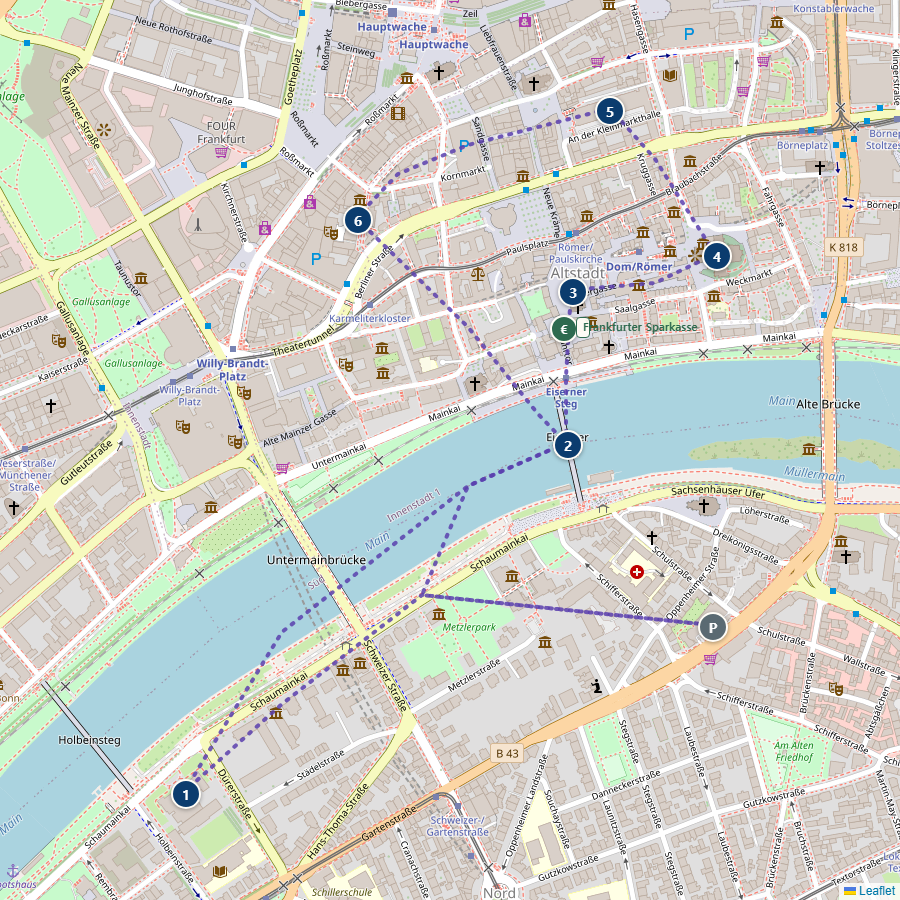
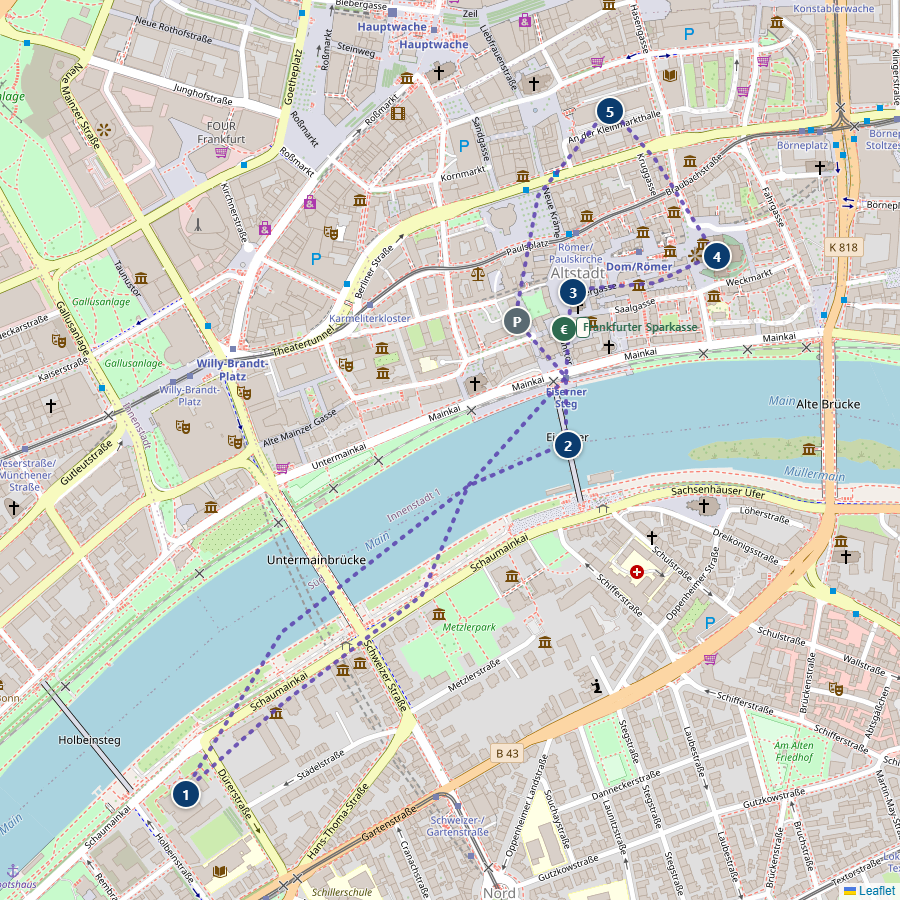
8일차 프랑크푸르트 주차장을 뢰머광장 클러스터 옆(Parkhaus Dom-Römer)으로 재배치, 괴테 생가 제거
주차장이 슈테델 미술관에만 가깝고 나머지 명소(뢰머광장·대성당·클라인마르크트할레)와 멀었던 문제를
해결하기 위해 주차장을 명소가 몰려 있는 뢰머광장 앞으로 옮기고, 다리를 건너 슈테델을 본 뒤
되돌아와 나머지 명소를 도는 동선으로 재구성. 괴테 생가는 지도/동선/카드에서 완전히 삭제.

diff --git a/germany-roadtrip-planner.html b/germany-roadtrip-planner.html
@@ -4401,7 +4401,7 @@ document.addEventListener('DOMContentLoaded', function(){
           <h4>오늘의 동선</h4>
           <ul>
             <li>이동 거리가 짧아 가장 여유로운 날 — 늦은 오전까지 뤼데스하임 케이블카(Seilbahn)나 라인강변 산책</li>
-            <li>프랑크푸르트로 직행(66km·55분) — 슈테델 미술관부터 시작해 뢰머광장 일대(아이제르너 슈텍·대성당·클라인마르크트할레·괴테 생가)를 도보로 둘러보기 (약 1~1.5시간)</li>
+            <li>프랑크푸르트로 직행(66km·55분) — Parkhaus Dom-Römer(뢰머광장 바로 앞)에 주차 후 다리 건너 슈테델 미술관부터 관람, 돌아오는 길에 아이제르너 슈텍·뢰머광장·대성당·클라인마르크트할레를 도보로 둘러보기 (약 1~1.5시간)</li>
             <li>⚠(선택, 시간 여유 있을 때만) 프랑크푸르트 가는 길에 비스바덴 경유(뤼데스하임→비스바덴 30km·33분, 비스바덴→프랑크푸르트 39km·32분 — 직행과 총거리 차이 거의 없음), 쿠어파크(Kurpark)·구시가 잠깐 산책(약 1시간) — 자세한 내용은 프랑크푸르트 다음 섹션 참고</li>
             <li><b style="color:#c0392b;">늦어도 오후 3~4시에는 공항으로 출발</b> (연료 만땅 채우기 + 반납 2~3시간 전 도착 기준, 19:40 출국 기준)</li>
             <li>프랑크푸르트 공항(FRA) 반납소에서 차량 반납, 외관 재확인 동석 → 19:40 출국편 탑승 수속</li>
@@ -4411,7 +4411,7 @@ document.addEventListener('DOMContentLoaded', function(){
           <h4>체크아웃 팁</h4>
           <p class="lodge">반납 전 마지막 주유소에서 Full 탱크 영수증을 꼭 챙기세요 (연료 정책 분쟁 방지)</p>
           <h4 style="margin-top:1rem">팁</h4>
-          <p class="tip">거리가 짧고 저녁 출발편이라 가장 여유로운 날입니다. 오늘은 슈테델 미술관을 도보 코스 시작점으로 두고 아이제르너 슈텍을 건너 뢰머광장 일대(대성당·클라인마르크트할레·괴테 생가)까지 도는 순서로 바꿨습니다 — 도보권 자체는 좁아 짧게 둘러보기 좋지만, 주말이라 도심 주차장이 붐빌 수 있으니 반납 시간에 쫓기지 않게 여유를 두세요. 비스바덴은 프랑크푸르트로 가는 길에 있어 들러도 총 이동거리 차이가 거의 없지만, 그만큼 도보 관광 시간이 줄어드니 시간이 빠듯하면 생략하고 프랑크푸르트로 직행하세요(자세한 내용은 프랑크푸르트 다음 섹션에 선택 사항으로 정리했습니다). 반납 영수증/사진은 예치금 환불 분쟁 대비용으로 보관하고, 공항에서는 렌터카 반납 표지판(Rückgabe/Return) 안내를 따라 별도 진입로로 들어갑니다.</p>
+          <p class="tip">거리가 짧고 저녁 출발편이라 가장 여유로운 날입니다. 오늘은 뢰머광장 앞 Parkhaus Dom-Römer에 주차해두고, 다리를 건너 슈테델 미술관을 먼저 본 뒤 되돌아와 아이제르너 슈텍·뢰머광장·대성당·클라인마르크트할레를 도는 순서로 정리했습니다 — 주차장이 나머지 명소들과 바로 붙어 있어 마지막에 짧게 훑고 차로 돌아오기 좋습니다. 도보권 자체는 좁아 짧게 둘러보기 좋지만, 주말이라 도심 주차장이 붐빌 수 있으니 반납 시간에 쫓기지 않게 여유를 두세요. 비스바덴은 프랑크푸르트로 가는 길에 있어 들러도 총 이동거리 차이가 거의 없지만, 그만큼 도보 관광 시간이 줄어드니 시간이 빠듯하면 생략하고 프랑크푸르트로 직행하세요(자세한 내용은 프랑크푸르트 다음 섹션에 선택 사항으로 정리했습니다). 반납 영수증/사진은 예치금 환불 분쟁 대비용으로 보관하고, 공항에서는 렌터카 반납 표지판(Rückgabe/Return) 안내를 따라 별도 진입로로 들어갑니다.</p>
         </div>
       </div>
       <div class="sight-list">
@@ -4584,22 +4584,21 @@ document.addEventListener('DOMContentLoaded', function(){
       </div>
       </div>
       <p class="city-label">프랑크푸르트</p>
-      <p class="walk-map-note">🚗 뤼데스하임→프랑크푸르트 직행 약 66km·55분 · <a href="https://www.google.com/maps/dir/?api=1&travelmode=driving&origin=49.9775,7.9271&destination=50.1106,8.6822" target="_blank" rel="noopener">Google 지도로 길찾기</a><br>🅿 Parkhaus Alt-Sachsenhausen(슈테델 미술관 도보 약 10분, 미술관 공식 추천 주차장) · 유료(시간당 €1, 야간 €4, 24시간 최대 €16) · <a href="https://www.google.com/maps/search/?api=1&query=Parkhaus+Alt-Sachsenhausen+Frankfurt" target="_blank" rel="noopener">주차장 위치 보기</a><br>🅿 만차 시 대안: <a href="https://www.google.com/maps/search/?api=1&query=Parkhaus+Dom-Roemer+Frankfurt" target="_blank" rel="noopener">Parkhaus Dom-Römer</a>(뢰머광장 바로 앞, 유료 시간당 약 €3~4)</p>
-      <p class="walk-map-note">슈테델 미술관에서 시작해 다리를 건너 뢰머광장 일대(대성당·클라인마르크트할레·괴테 생가)를 도는 순서로 정리했습니다 — 슈테델·대성당·클라인마르크트할레가 핵심, 괴테 생가는 시간 되면 추가. 비행기 시간이 빠듯하면 슈테델만 보고 다리를 건너 뢰머광장까지만 갔다가 되돌아가세요.</p>
-      <a class="walk-map-link" href="https://www.google.com/maps/dir/?api=1&travelmode=walking&origin=50.1056,8.6852&destination=50.1056,8.6852&waypoints=50.1033%2C8.6739%7C50.1081%2C8.6821%7C50.1102%2C8.6822%7C50.1107%2C8.6853%7C50.1127%2C8.6830%7C50.1112%2C8.6776" target="_blank" rel="noopener">📍 Google 지도로 도보 코스 보기(Parkhaus Alt-Sachsenhausen 출발·도착) · 총 약 3.5km · 도보 약 49분</a>
+      <p class="walk-map-note">🚗 뤼데스하임→프랑크푸르트 직행 약 66km·55분 · <a href="https://www.google.com/maps/dir/?api=1&travelmode=driving&origin=49.9775,7.9271&destination=50.1102,8.6822" target="_blank" rel="noopener">Google 지도로 길찾기</a><br>🅿 Parkhaus Dom-Römer(뢰머광장 바로 앞, 대성당·클라인마르크트할레도 도보 5분 내) · 유료(시간당 약 €3~4) · <a href="https://www.google.com/maps/search/?api=1&query=Parkhaus+Dom-Roemer+Frankfurt" target="_blank" rel="noopener">주차장 위치 보기</a><br>🅿 만차 시 대안: <a href="https://www.google.com/maps/search/?api=1&query=Parkhaus+Hauptwache+Frankfurt" target="_blank" rel="noopener">Parkhaus Hauptwache</a>(클라인마르크트할레에서 도보 약 7분)</p>
+      <p class="walk-map-note">뢰머광장 바로 앞 Parkhaus Dom-Römer에 주차해두고, 대성당·클라인마르크트할레 등 나머지 명소와 붙어 있는 이 주차장을 거점 삼아 먼저 다리를 건너 슈테델 미술관을 보고 온 뒤, 되돌아오는 길에 아이제르너 슈텍·뢰머광장·대성당·클라인마르크트할레를 도는 순서로 정리했습니다. 비행기 시간이 빠듯하면 슈테델 관람을 줄이고 뢰머광장 일대만 짧게 둘러보세요.</p>
+      <a class="walk-map-link" href="https://www.google.com/maps/dir/?api=1&travelmode=walking&origin=50.1102,8.6822&destination=50.1102,8.6822&waypoints=50.1033%2C8.6739%7C50.1081%2C8.6821%7C50.1107%2C8.6853%7C50.1127%2C8.6830" target="_blank" rel="noopener">📍 Google 지도로 도보 코스 보기(Parkhaus Dom-Römer 출발·도착) · 총 약 3.0km · 도보 약 37분</a>
       <div class="route-snapshot">
         <div class="route-snapshot-media">
-          <img src="images/routes/frankfurt.png?v=7" alt="프랑크푸르트 도보 코스 지도 스냅샷 — 슈테델 미술관에서 시작해 아이제르너 슈텍·뢰머광장·대성당·클라인마르크트할레·괴테 생가로 이어지는 순서, Frankfurter Sparkasse ATM 포함" loading="lazy" width="900" height="900">
+          <img src="images/routes/frankfurt.png?v=8" alt="프랑크푸르트 도보 코스 지도 스냅샷 — Parkhaus Dom-Römer에서 출발해 다리 건너 슈테델 미술관을 본 뒤 아이제르너 슈텍·뢰머광장·대성당·클라인마르크트할레를 돌아 주차장으로 복귀, Frankfurter Sparkasse ATM 포함" loading="lazy" width="900" height="900">
         </div>
         <ol class="route-steps">
-        <li class="rs-p"><span class="rs-name">Parkhaus Alt-Sachsenhausen</span></li>
-        <li><span class="rs-name">슈테델 미술관(Städel Museum)</span><span class="rs-seg">(850m, 10분)</span></li>
+        <li class="rs-p"><span class="rs-name">Parkhaus Dom-Römer</span></li>
+        <li><span class="rs-name">슈테델 미술관(Städel Museum)</span><span class="rs-seg">(980m, 12분, 아이제르너 슈텍 경유)</span></li>
         <li><span class="rs-name">아이제르너 슈텍</span><span class="rs-seg">(750m, 9분)</span></li>
         <li><span class="rs-name">뢰머광장</span><span class="rs-seg">(230m, 3분)</span></li>
         <li><span class="rs-name">프랑크푸르트 대성당</span><span class="rs-seg">(300m, 4분)</span></li>
         <li><span class="rs-name">클라인마르크트할레(Kleinmarkthalle)</span><span class="rs-seg">(300m, 4분)</span></li>
-        <li><span class="rs-name">[선택] 괴테 생가(Goethe-Haus)</span><span class="rs-seg">(420m, 6분)</span></li>
-        <li class="rs-p"><span class="rs-name">Parkhaus Alt-Sachsenhausen(아이제르너 슈텍 다시 건너 복귀)</span><span class="rs-seg">(1.0km, 14분)</span></li>
+        <li class="rs-p"><span class="rs-name">Parkhaus Dom-Römer</span><span class="rs-seg">(400m, 5분)</span></li>
         </ol>
       </div>
       <div class="landmark-grid">
@@ -4609,11 +4608,11 @@ document.addEventListener('DOMContentLoaded', function(){
         <h3><span class="stop-num">1</span>슈테델 미술관(Städel Museum)</h3>
         <p class="landmark-desc">1815년 은행가 요한 프리드리히 슈테델의 유증으로 세워진 시민 재단 미술관. 14세기부터 현재까지 700년의 서양미술사를 한 곳에서 훑을 수 있는 독일 대표 미술관 중 하나로, 회화 약 3,100점·조각 660여 점·판화/드로잉 10만 점 이상을 소장합니다. 반 에이크·보티첼리·뒤러·크라나흐·홀바인부터 렘브란트·페르메이르·모네·피카소·베크만·리히터까지 시대를 아우르는 컬렉션이 특징입니다. 마인강변 &ldquo;박물관 강변(Museumsufer)&rdquo;에 자리해 오늘 도보 코스의 시작점입니다.</p>
         <div class="landmark-meta">화·토·일 10:00–18:00, 목·금 10:00–21:00(월요일 휴관) · <span class="landmark-price">성인 €19 · 대학생 €17</span>(화요일 15시 이후 상설전+특별전 전체 €10) · <a href="https://www.staedelmuseum.de" target="_blank" rel="noopener">홈페이지</a> · <a href="https://www.google.com/maps/search/?api=1&query=Staedel+Museum+Frankfurt" target="_blank" rel="noopener">지도</a></div>
-        <div class="landmark-parking">🅿 Parkhaus Alt-Sachsenhausen에서 도보 약 10분 · ⚠ 제대로 보려면 최소 1~1.5시간 필요 — 비행기 시간 감안해 관람 시간 배분</div>
+        <div class="landmark-parking">🅿 Parkhaus Dom-Römer에서 다리 건너 도보 약 12분 · ⚠ 제대로 보려면 최소 1~1.5시간 필요 — 비행기 시간 감안해 관람 시간 배분</div>
         <div style="display:grid;grid-template-columns:repeat(auto-fit,minmax(150px,1fr));gap:0.6rem;margin-top:0.7rem;">
           <div>
             <img src="https://commons.wikimedia.org/wiki/Special:FilePath/Johann_Heinrich_Wilhelm_Tischbein_-_Goethe_in_the_Roman_Campagna_-_Google_Art_Project.jpg?width=300" alt="티슈바인, '캄파냐의 괴테'" loading="lazy" style="width:100%;border-radius:6px;display:block;">
-            <p style="font-size:0.78rem;margin:0.3rem 0 0;"><b>티슈바인, &ldquo;로마 캄파냐의 괴테&rdquo;(1787년)</b><br>슈테델의 최고 인기작. 괴테 생가와 함께 보면 더 특별합니다</p>
+            <p style="font-size:0.78rem;margin:0.3rem 0 0;"><b>티슈바인, &ldquo;로마 캄파냐의 괴테&rdquo;(1787년)</b><br>슈테델의 최고 인기작</p>
           </div>
           <div>
             <img src="https://commons.wikimedia.org/wiki/Special:FilePath/Johannes_Vermeer_-_The_Geographer_-_Google_Art_Project.jpg?width=300" alt="페르메이르, '지리학자'" loading="lazy" style="width:100%;border-radius:6px;display:block;">
@@ -4680,21 +4679,6 @@ document.addEventListener('DOMContentLoaded', function(){
         <p class="landmark-desc">1954년 문을 연 실내 시장. 정육점·치즈가게·청과상 등 100여 개 상점이 모여 있어 즉석 프랑크푸르터 소시지 등을 사 먹기 좋습니다.</p>
         <div class="landmark-meta">월–금 08:00–18:00, 토 08:00–16:00, 일·공휴일 휴무 · <span class="landmark-price">입장 무료</span> · ⚠ 방문일(9/26 토)은 16:00 마감 — 그 전에 들르세요 · <a href="https://www.google.com/maps/search/?api=1&query=Kleinmarkthalle+Frankfurt" target="_blank" rel="noopener">지도</a></div>
         <div class="landmark-parking">🅿 Parkhaus Dom-Römer · 유료(시간당 약 €3~4)</div>
-        </div>
-      </div>
-      <div class="landmark-card">
-        <img src="https://commons.wikimedia.org/wiki/Special:FilePath/Frankfurt_Am_Main-Goethe-Haus-Ansicht_am_Grossen_Hirschgraben.jpg?width=500" alt="괴테 생가(Goethe-Haus)" loading="lazy">
-        <div class="landmark-body">
-        <h3><span class="stop-num">6</span>[선택] 괴테 생가(Goethe-Haus)</h3>
-        <p class="landmark-desc">1749년 괴테가 태어나 청년기까지 살았던 집. 전쟁으로 파괴됐다가 원래 가구·장식을 최대한 살려 복원했고, 괴테가 &lt;파우스트&gt; 초고를 썼다는 서재도 볼 수 있습니다. 옆 건물의 괴테 박물관과 함께 관람합니다.</p>
-        <div class="landmark-meta">월–토 10:00–18:00(목 ~21:00), 일·공휴일 10:00–17:30 · <span class="landmark-price">성인 €12 · 대학생 €7</span> · <a href="https://frankfurter-goethe-haus.de" target="_blank" rel="noopener">홈페이지</a> · <a href="https://www.google.com/maps/search/?api=1&query=Goethe-Haus+Frankfurt" target="_blank" rel="noopener">지도</a></div>
-        <div class="landmark-parking">🅿 클라인마르크트할레에서 도보 약 6분 · ⚠ 비행기 시간이 빠듯하면 생략 — 관람에 최소 30~45분 필요</div>
-        <div style="display:grid;grid-template-columns:repeat(auto-fit,minmax(150px,1fr));gap:0.6rem;margin-top:0.7rem;">
-          <div>
-            <img src="https://commons.wikimedia.org/wiki/Special:FilePath/Innenraum%40Goethe-Haus_Frankfurt_a.M.20170819_04.jpg?width=300" alt="괴테 생가 내부, 복원된 방" loading="lazy" style="width:100%;border-radius:6px;display:block;">
-            <p style="font-size:0.78rem;margin:0.3rem 0 0;"><b>복원된 실내</b><br>전쟁으로 소실된 원래 건물을 18세기 당시 가구·장식품을 최대한 되살려 복원했습니다</p>
-          </div>
-        </div>
         </div>
       </div>
       </div>
@@ -4923,7 +4907,7 @@ document.addEventListener('DOMContentLoaded', function(){
       </div>
       </div>
       </details>
-      <p class="walk-map-note">🚗 프랑크푸르트 시내(Parkhaus Alt-Sachsenhausen)→Hertz 반납(프랑크푸르트 공항 터미널1) 약 13.3km·15분 · <a href="https://www.google.com/maps/dir/?api=1&travelmode=driving&origin=50.1056,8.6852&destination=50.0505,8.5622" target="_blank" rel="noopener">Google 지도로 길찾기</a> · <b style="color:#c0392b;">반납 2~3시간 전 도착 기준, 늦어도 오후 3~4시엔 출발</b></p>
+      <p class="walk-map-note">🚗 프랑크푸르트 시내(Parkhaus Dom-Römer)→Hertz 반납(프랑크푸르트 공항 터미널1) 약 14.3km·16분 · <a href="https://www.google.com/maps/dir/?api=1&travelmode=driving&origin=50.1102,8.6822&destination=50.0505,8.5622" target="_blank" rel="noopener">Google 지도로 길찾기</a> · <b style="color:#c0392b;">반납 2~3시간 전 도착 기준, 늦어도 오후 3~4시엔 출발</b></p>
       <h4 style="margin-top:1.2rem;">🏧 ATM 인출 장소(도이체방크·슈파카세·포스트방크·코메르츠방크)</h4>
       <div class="food-grid">
       <div class="food-card">

diff --git a/index.html b/index.html
@@ -4401,7 +4401,7 @@ document.addEventListener('DOMContentLoaded', function(){
           <h4>오늘의 동선</h4>
           <ul>
             <li>이동 거리가 짧아 가장 여유로운 날 — 늦은 오전까지 뤼데스하임 케이블카(Seilbahn)나 라인강변 산책</li>
-            <li>프랑크푸르트로 직행(66km·55분) — 슈테델 미술관부터 시작해 뢰머광장 일대(아이제르너 슈텍·대성당·클라인마르크트할레·괴테 생가)를 도보로 둘러보기 (약 1~1.5시간)</li>
+            <li>프랑크푸르트로 직행(66km·55분) — Parkhaus Dom-Römer(뢰머광장 바로 앞)에 주차 후 다리 건너 슈테델 미술관부터 관람, 돌아오는 길에 아이제르너 슈텍·뢰머광장·대성당·클라인마르크트할레를 도보로 둘러보기 (약 1~1.5시간)</li>
             <li>⚠(선택, 시간 여유 있을 때만) 프랑크푸르트 가는 길에 비스바덴 경유(뤼데스하임→비스바덴 30km·33분, 비스바덴→프랑크푸르트 39km·32분 — 직행과 총거리 차이 거의 없음), 쿠어파크(Kurpark)·구시가 잠깐 산책(약 1시간) — 자세한 내용은 프랑크푸르트 다음 섹션 참고</li>
             <li><b style="color:#c0392b;">늦어도 오후 3~4시에는 공항으로 출발</b> (연료 만땅 채우기 + 반납 2~3시간 전 도착 기준, 19:40 출국 기준)</li>
             <li>프랑크푸르트 공항(FRA) 반납소에서 차량 반납, 외관 재확인 동석 → 19:40 출국편 탑승 수속</li>
@@ -4411,7 +4411,7 @@ document.addEventListener('DOMContentLoaded', function(){
           <h4>체크아웃 팁</h4>
           <p class="lodge">반납 전 마지막 주유소에서 Full 탱크 영수증을 꼭 챙기세요 (연료 정책 분쟁 방지)</p>
           <h4 style="margin-top:1rem">팁</h4>
-          <p class="tip">거리가 짧고 저녁 출발편이라 가장 여유로운 날입니다. 오늘은 슈테델 미술관을 도보 코스 시작점으로 두고 아이제르너 슈텍을 건너 뢰머광장 일대(대성당·클라인마르크트할레·괴테 생가)까지 도는 순서로 바꿨습니다 — 도보권 자체는 좁아 짧게 둘러보기 좋지만, 주말이라 도심 주차장이 붐빌 수 있으니 반납 시간에 쫓기지 않게 여유를 두세요. 비스바덴은 프랑크푸르트로 가는 길에 있어 들러도 총 이동거리 차이가 거의 없지만, 그만큼 도보 관광 시간이 줄어드니 시간이 빠듯하면 생략하고 프랑크푸르트로 직행하세요(자세한 내용은 프랑크푸르트 다음 섹션에 선택 사항으로 정리했습니다). 반납 영수증/사진은 예치금 환불 분쟁 대비용으로 보관하고, 공항에서는 렌터카 반납 표지판(Rückgabe/Return) 안내를 따라 별도 진입로로 들어갑니다.</p>
+          <p class="tip">거리가 짧고 저녁 출발편이라 가장 여유로운 날입니다. 오늘은 뢰머광장 앞 Parkhaus Dom-Römer에 주차해두고, 다리를 건너 슈테델 미술관을 먼저 본 뒤 되돌아와 아이제르너 슈텍·뢰머광장·대성당·클라인마르크트할레를 도는 순서로 정리했습니다 — 주차장이 나머지 명소들과 바로 붙어 있어 마지막에 짧게 훑고 차로 돌아오기 좋습니다. 도보권 자체는 좁아 짧게 둘러보기 좋지만, 주말이라 도심 주차장이 붐빌 수 있으니 반납 시간에 쫓기지 않게 여유를 두세요. 비스바덴은 프랑크푸르트로 가는 길에 있어 들러도 총 이동거리 차이가 거의 없지만, 그만큼 도보 관광 시간이 줄어드니 시간이 빠듯하면 생략하고 프랑크푸르트로 직행하세요(자세한 내용은 프랑크푸르트 다음 섹션에 선택 사항으로 정리했습니다). 반납 영수증/사진은 예치금 환불 분쟁 대비용으로 보관하고, 공항에서는 렌터카 반납 표지판(Rückgabe/Return) 안내를 따라 별도 진입로로 들어갑니다.</p>
         </div>
       </div>
       <div class="sight-list">
@@ -4584,22 +4584,21 @@ document.addEventListener('DOMContentLoaded', function(){
       </div>
       </div>
       <p class="city-label">프랑크푸르트</p>
-      <p class="walk-map-note">🚗 뤼데스하임→프랑크푸르트 직행 약 66km·55분 · <a href="https://www.google.com/maps/dir/?api=1&travelmode=driving&origin=49.9775,7.9271&destination=50.1106,8.6822" target="_blank" rel="noopener">Google 지도로 길찾기</a><br>🅿 Parkhaus Alt-Sachsenhausen(슈테델 미술관 도보 약 10분, 미술관 공식 추천 주차장) · 유료(시간당 €1, 야간 €4, 24시간 최대 €16) · <a href="https://www.google.com/maps/search/?api=1&query=Parkhaus+Alt-Sachsenhausen+Frankfurt" target="_blank" rel="noopener">주차장 위치 보기</a><br>🅿 만차 시 대안: <a href="https://www.google.com/maps/search/?api=1&query=Parkhaus+Dom-Roemer+Frankfurt" target="_blank" rel="noopener">Parkhaus Dom-Römer</a>(뢰머광장 바로 앞, 유료 시간당 약 €3~4)</p>
-      <p class="walk-map-note">슈테델 미술관에서 시작해 다리를 건너 뢰머광장 일대(대성당·클라인마르크트할레·괴테 생가)를 도는 순서로 정리했습니다 — 슈테델·대성당·클라인마르크트할레가 핵심, 괴테 생가는 시간 되면 추가. 비행기 시간이 빠듯하면 슈테델만 보고 다리를 건너 뢰머광장까지만 갔다가 되돌아가세요.</p>
-      <a class="walk-map-link" href="https://www.google.com/maps/dir/?api=1&travelmode=walking&origin=50.1056,8.6852&destination=50.1056,8.6852&waypoints=50.1033%2C8.6739%7C50.1081%2C8.6821%7C50.1102%2C8.6822%7C50.1107%2C8.6853%7C50.1127%2C8.6830%7C50.1112%2C8.6776" target="_blank" rel="noopener">📍 Google 지도로 도보 코스 보기(Parkhaus Alt-Sachsenhausen 출발·도착) · 총 약 3.5km · 도보 약 49분</a>
+      <p class="walk-map-note">🚗 뤼데스하임→프랑크푸르트 직행 약 66km·55분 · <a href="https://www.google.com/maps/dir/?api=1&travelmode=driving&origin=49.9775,7.9271&destination=50.1102,8.6822" target="_blank" rel="noopener">Google 지도로 길찾기</a><br>🅿 Parkhaus Dom-Römer(뢰머광장 바로 앞, 대성당·클라인마르크트할레도 도보 5분 내) · 유료(시간당 약 €3~4) · <a href="https://www.google.com/maps/search/?api=1&query=Parkhaus+Dom-Roemer+Frankfurt" target="_blank" rel="noopener">주차장 위치 보기</a><br>🅿 만차 시 대안: <a href="https://www.google.com/maps/search/?api=1&query=Parkhaus+Hauptwache+Frankfurt" target="_blank" rel="noopener">Parkhaus Hauptwache</a>(클라인마르크트할레에서 도보 약 7분)</p>
+      <p class="walk-map-note">뢰머광장 바로 앞 Parkhaus Dom-Römer에 주차해두고, 대성당·클라인마르크트할레 등 나머지 명소와 붙어 있는 이 주차장을 거점 삼아 먼저 다리를 건너 슈테델 미술관을 보고 온 뒤, 되돌아오는 길에 아이제르너 슈텍·뢰머광장·대성당·클라인마르크트할레를 도는 순서로 정리했습니다. 비행기 시간이 빠듯하면 슈테델 관람을 줄이고 뢰머광장 일대만 짧게 둘러보세요.</p>
+      <a class="walk-map-link" href="https://www.google.com/maps/dir/?api=1&travelmode=walking&origin=50.1102,8.6822&destination=50.1102,8.6822&waypoints=50.1033%2C8.6739%7C50.1081%2C8.6821%7C50.1107%2C8.6853%7C50.1127%2C8.6830" target="_blank" rel="noopener">📍 Google 지도로 도보 코스 보기(Parkhaus Dom-Römer 출발·도착) · 총 약 3.0km · 도보 약 37분</a>
       <div class="route-snapshot">
         <div class="route-snapshot-media">
-          <img src="images/routes/frankfurt.png?v=7" alt="프랑크푸르트 도보 코스 지도 스냅샷 — 슈테델 미술관에서 시작해 아이제르너 슈텍·뢰머광장·대성당·클라인마르크트할레·괴테 생가로 이어지는 순서, Frankfurter Sparkasse ATM 포함" loading="lazy" width="900" height="900">
+          <img src="images/routes/frankfurt.png?v=8" alt="프랑크푸르트 도보 코스 지도 스냅샷 — Parkhaus Dom-Römer에서 출발해 다리 건너 슈테델 미술관을 본 뒤 아이제르너 슈텍·뢰머광장·대성당·클라인마르크트할레를 돌아 주차장으로 복귀, Frankfurter Sparkasse ATM 포함" loading="lazy" width="900" height="900">
         </div>
         <ol class="route-steps">
-        <li class="rs-p"><span class="rs-name">Parkhaus Alt-Sachsenhausen</span></li>
-        <li><span class="rs-name">슈테델 미술관(Städel Museum)</span><span class="rs-seg">(850m, 10분)</span></li>
+        <li class="rs-p"><span class="rs-name">Parkhaus Dom-Römer</span></li>
+        <li><span class="rs-name">슈테델 미술관(Städel Museum)</span><span class="rs-seg">(980m, 12분, 아이제르너 슈텍 경유)</span></li>
         <li><span class="rs-name">아이제르너 슈텍</span><span class="rs-seg">(750m, 9분)</span></li>
         <li><span class="rs-name">뢰머광장</span><span class="rs-seg">(230m, 3분)</span></li>
         <li><span class="rs-name">프랑크푸르트 대성당</span><span class="rs-seg">(300m, 4분)</span></li>
         <li><span class="rs-name">클라인마르크트할레(Kleinmarkthalle)</span><span class="rs-seg">(300m, 4분)</span></li>
-        <li><span class="rs-name">[선택] 괴테 생가(Goethe-Haus)</span><span class="rs-seg">(420m, 6분)</span></li>
-        <li class="rs-p"><span class="rs-name">Parkhaus Alt-Sachsenhausen(아이제르너 슈텍 다시 건너 복귀)</span><span class="rs-seg">(1.0km, 14분)</span></li>
+        <li class="rs-p"><span class="rs-name">Parkhaus Dom-Römer</span><span class="rs-seg">(400m, 5분)</span></li>
         </ol>
       </div>
       <div class="landmark-grid">
@@ -4609,11 +4608,11 @@ document.addEventListener('DOMContentLoaded', function(){
         <h3><span class="stop-num">1</span>슈테델 미술관(Städel Museum)</h3>
         <p class="landmark-desc">1815년 은행가 요한 프리드리히 슈테델의 유증으로 세워진 시민 재단 미술관. 14세기부터 현재까지 700년의 서양미술사를 한 곳에서 훑을 수 있는 독일 대표 미술관 중 하나로, 회화 약 3,100점·조각 660여 점·판화/드로잉 10만 점 이상을 소장합니다. 반 에이크·보티첼리·뒤러·크라나흐·홀바인부터 렘브란트·페르메이르·모네·피카소·베크만·리히터까지 시대를 아우르는 컬렉션이 특징입니다. 마인강변 &ldquo;박물관 강변(Museumsufer)&rdquo;에 자리해 오늘 도보 코스의 시작점입니다.</p>
         <div class="landmark-meta">화·토·일 10:00–18:00, 목·금 10:00–21:00(월요일 휴관) · <span class="landmark-price">성인 €19 · 대학생 €17</span>(화요일 15시 이후 상설전+특별전 전체 €10) · <a href="https://www.staedelmuseum.de" target="_blank" rel="noopener">홈페이지</a> · <a href="https://www.google.com/maps/search/?api=1&query=Staedel+Museum+Frankfurt" target="_blank" rel="noopener">지도</a></div>
-        <div class="landmark-parking">🅿 Parkhaus Alt-Sachsenhausen에서 도보 약 10분 · ⚠ 제대로 보려면 최소 1~1.5시간 필요 — 비행기 시간 감안해 관람 시간 배분</div>
+        <div class="landmark-parking">🅿 Parkhaus Dom-Römer에서 다리 건너 도보 약 12분 · ⚠ 제대로 보려면 최소 1~1.5시간 필요 — 비행기 시간 감안해 관람 시간 배분</div>
         <div style="display:grid;grid-template-columns:repeat(auto-fit,minmax(150px,1fr));gap:0.6rem;margin-top:0.7rem;">
           <div>
             <img src="https://commons.wikimedia.org/wiki/Special:FilePath/Johann_Heinrich_Wilhelm_Tischbein_-_Goethe_in_the_Roman_Campagna_-_Google_Art_Project.jpg?width=300" alt="티슈바인, '캄파냐의 괴테'" loading="lazy" style="width:100%;border-radius:6px;display:block;">
-            <p style="font-size:0.78rem;margin:0.3rem 0 0;"><b>티슈바인, &ldquo;로마 캄파냐의 괴테&rdquo;(1787년)</b><br>슈테델의 최고 인기작. 괴테 생가와 함께 보면 더 특별합니다</p>
+            <p style="font-size:0.78rem;margin:0.3rem 0 0;"><b>티슈바인, &ldquo;로마 캄파냐의 괴테&rdquo;(1787년)</b><br>슈테델의 최고 인기작</p>
           </div>
           <div>
             <img src="https://commons.wikimedia.org/wiki/Special:FilePath/Johannes_Vermeer_-_The_Geographer_-_Google_Art_Project.jpg?width=300" alt="페르메이르, '지리학자'" loading="lazy" style="width:100%;border-radius:6px;display:block;">
@@ -4680,21 +4679,6 @@ document.addEventListener('DOMContentLoaded', function(){
         <p class="landmark-desc">1954년 문을 연 실내 시장. 정육점·치즈가게·청과상 등 100여 개 상점이 모여 있어 즉석 프랑크푸르터 소시지 등을 사 먹기 좋습니다.</p>
         <div class="landmark-meta">월–금 08:00–18:00, 토 08:00–16:00, 일·공휴일 휴무 · <span class="landmark-price">입장 무료</span> · ⚠ 방문일(9/26 토)은 16:00 마감 — 그 전에 들르세요 · <a href="https://www.google.com/maps/search/?api=1&query=Kleinmarkthalle+Frankfurt" target="_blank" rel="noopener">지도</a></div>
         <div class="landmark-parking">🅿 Parkhaus Dom-Römer · 유료(시간당 약 €3~4)</div>
-        </div>
-      </div>
-      <div class="landmark-card">
-        <img src="https://commons.wikimedia.org/wiki/Special:FilePath/Frankfurt_Am_Main-Goethe-Haus-Ansicht_am_Grossen_Hirschgraben.jpg?width=500" alt="괴테 생가(Goethe-Haus)" loading="lazy">
-        <div class="landmark-body">
-        <h3><span class="stop-num">6</span>[선택] 괴테 생가(Goethe-Haus)</h3>
-        <p class="landmark-desc">1749년 괴테가 태어나 청년기까지 살았던 집. 전쟁으로 파괴됐다가 원래 가구·장식을 최대한 살려 복원했고, 괴테가 &lt;파우스트&gt; 초고를 썼다는 서재도 볼 수 있습니다. 옆 건물의 괴테 박물관과 함께 관람합니다.</p>
-        <div class="landmark-meta">월–토 10:00–18:00(목 ~21:00), 일·공휴일 10:00–17:30 · <span class="landmark-price">성인 €12 · 대학생 €7</span> · <a href="https://frankfurter-goethe-haus.de" target="_blank" rel="noopener">홈페이지</a> · <a href="https://www.google.com/maps/search/?api=1&query=Goethe-Haus+Frankfurt" target="_blank" rel="noopener">지도</a></div>
-        <div class="landmark-parking">🅿 클라인마르크트할레에서 도보 약 6분 · ⚠ 비행기 시간이 빠듯하면 생략 — 관람에 최소 30~45분 필요</div>
-        <div style="display:grid;grid-template-columns:repeat(auto-fit,minmax(150px,1fr));gap:0.6rem;margin-top:0.7rem;">
-          <div>
-            <img src="https://commons.wikimedia.org/wiki/Special:FilePath/Innenraum%40Goethe-Haus_Frankfurt_a.M.20170819_04.jpg?width=300" alt="괴테 생가 내부, 복원된 방" loading="lazy" style="width:100%;border-radius:6px;display:block;">
-            <p style="font-size:0.78rem;margin:0.3rem 0 0;"><b>복원된 실내</b><br>전쟁으로 소실된 원래 건물을 18세기 당시 가구·장식품을 최대한 되살려 복원했습니다</p>
-          </div>
-        </div>
         </div>
       </div>
       </div>
@@ -4923,7 +4907,7 @@ document.addEventListener('DOMContentLoaded', function(){
       </div>
       </div>
       </details>
-      <p class="walk-map-note">🚗 프랑크푸르트 시내(Parkhaus Alt-Sachsenhausen)→Hertz 반납(프랑크푸르트 공항 터미널1) 약 13.3km·15분 · <a href="https://www.google.com/maps/dir/?api=1&travelmode=driving&origin=50.1056,8.6852&destination=50.0505,8.5622" target="_blank" rel="noopener">Google 지도로 길찾기</a> · <b style="color:#c0392b;">반납 2~3시간 전 도착 기준, 늦어도 오후 3~4시엔 출발</b></p>
+      <p class="walk-map-note">🚗 프랑크푸르트 시내(Parkhaus Dom-Römer)→Hertz 반납(프랑크푸르트 공항 터미널1) 약 14.3km·16분 · <a href="https://www.google.com/maps/dir/?api=1&travelmode=driving&origin=50.1102,8.6822&destination=50.0505,8.5622" target="_blank" rel="noopener">Google 지도로 길찾기</a> · <b style="color:#c0392b;">반납 2~3시간 전 도착 기준, 늦어도 오후 3~4시엔 출발</b></p>
       <h4 style="margin-top:1.2rem;">🏧 ATM 인출 장소(도이체방크·슈파카세·포스트방크·코메르츠방크)</h4>
       <div class="food-grid">
       <div class="food-card">
